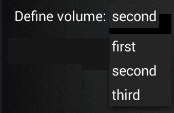
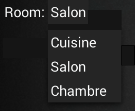
1.0
Released

diff --git a/README.md b/README.md
@@ -153,8 +153,8 @@ Les actions sont au format JSON et sont définies dans le fichier `client.ini` d
 |     :---:   | :---:    | --- 			|
 | **normal** | Non | Le paramètre par défaut si cette propriété n'est pas définie. Ce type n'affiche pas de page d'activité pour l'action. Après avoir sélectionné l'action dans le menu déroulant de l'application, celle-ci est exécutée directement une seule fois.|
 | **activity** | Non | Affiche une page d'activité pour l'action. Un bouton "EXECUTER" permet d'exécuter l'action plusieurs fois.|
-| **slider**   | Oui | Affiche un slider pour la sélection d'une valeur numérique. <BR>![GitHub Logo](/images/slider.png) <BR> <BR> **Définition:** <BR> slider:**<i>param</i>**@**<i>pos</i>**@**<i>size</i>**@**<i>max value</i>**@**<i>texte</i>** <BR> <BR> **<i>param:</i>** Le nom du paramètre pour la commande (défini dans la propriété **command** de l'action). <BR>**<i>pos:</i>** L'**<i>ID</i>** du slider pour l'activité (**2**).<BR>**<i>size:</i>** La longueur du slider dans la page. <BR>**<i>max value:</i>** La valeur maximale d'incrémentation. <BR>**<i>texte:</i>** Le texte du slider.<BR><BR>**Exemple:** Supposons la commande **<i>set_speaker</i>** de l'image ci-dessus avec un paramètre **<i>set</i>** qui définie une valeur de volume (valeur par défaut définie à 50). Le paramètre **<i>command</i>** de l'action est défini comme suit:<BR>command=set_speaker&set=50<BR><BR>Pour un slider associé au paramètre <i>set</i>, d'ID 1, de longueur 350, d'un incrément maxi de 100 et un texte "Define volume:", le type sera défini comme suit:<BR>"type": "slider:set@1@350@100@Define volume:"|
-| **spinner**   | Oui |
+| **slider**   | Oui | Affiche un slider pour la sélection d'une valeur numérique. <BR>![GitHub Logo](/images/slider.png) <BR> <BR> **Définition:** <BR> slider:**<i>param</i>**@**<i>ID</i>**@**<i>size</i>**@**<i>max value</i>**@**<i>texte</i>** <BR> <BR> **<i>param:</i>** Le nom du paramètre pour la commande (défini dans la propriété **command** de l'action). <BR>**<i>ID:</i>** L'**<i>ID</i>** du slider dans l'activité action (**2**).<BR>**<i>size:</i>** La longueur du slider dans la page.<BR>**<i>max value:</i>** La valeur maximale d'incrémentation. <BR>**<i>texte:</i>** Le texte du slider.<BR><BR>**Exemple:** Supposons la commande **<i>set_speaker</i>** de l'image ci-dessus avec un paramètre **<i>set</i>** qui définie une valeur de volume (valeur par défaut définie à 50). Le paramètre **<i>command</i>** de l'action est défini comme suit:<BR>command=set_speaker&set=50<BR><BR>Pour un slider associé au paramètre <i>set</i>, d'ID 1, de longueur 350, d'un incrément maxi de 100 et un texte "Define volume:", le type sera défini comme suit:<BR>"type": "slider:set@1@350@100@Define volume:"|
+| **spinner**   | Oui | Affiche une liste déroulante de choix. <BR>![GitHub Logo](/images/spinner.png) <BR> <BR> **Définition:** <BR> spinner:**<i>param</i>**@**<i>ID</i>**@**<i>choice list</i>**@**<i>texte</i>** <BR> <BR> **<i>param:</i>** Le nom du paramètre pour la commande (défini dans la propriété **command** de l'action). <BR>**<i>ID:</i>** L'**<i>ID</i>** du spinner dans l'activité action (**2**).<BR>**<i>choice list:</i>** Les valeurs de la liste déroulante séparées par des pipes ("|").<BR>**<i>texte:</i>** Le texte du slider.<BR><BR>**Exemple:** Supposons la commande **<i>set_room</i>** de l'image ci-dessus avec un paramètre **<i>room</i>** qui définie une pièce (valeur par défaut "Salon"). Le paramètre **<i>command</i>** de l'action est défini comme suit:<BR>command=set_room&room=Salon<BR><BR>Pour un spinner associé au paramètre <i>set-room</i>, d'ID 1, d'une liste de choix "Cuisine|Salon|Chambre" et un texte "Room:", le type sera défini comme suit:<BR>"type": "spinner:set_room@1@Cuisine|Salon|Chambre@Define volume:"|
 | **editText**   | Oui |
 
 **(1):** La propriété "type" peut avoir les types chainables séparés par un caractère **"&"** vous permettant de créer une saisie de plusieurs valeurs pour une action, par exemple:
